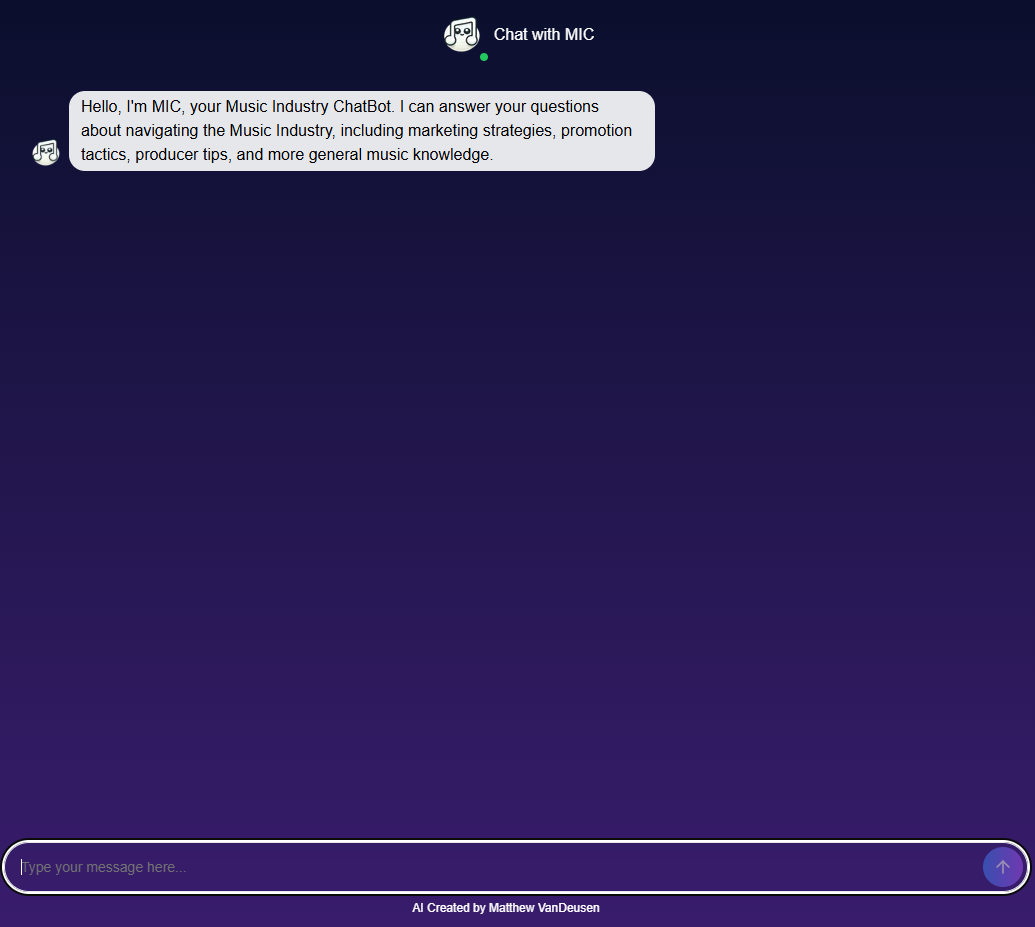
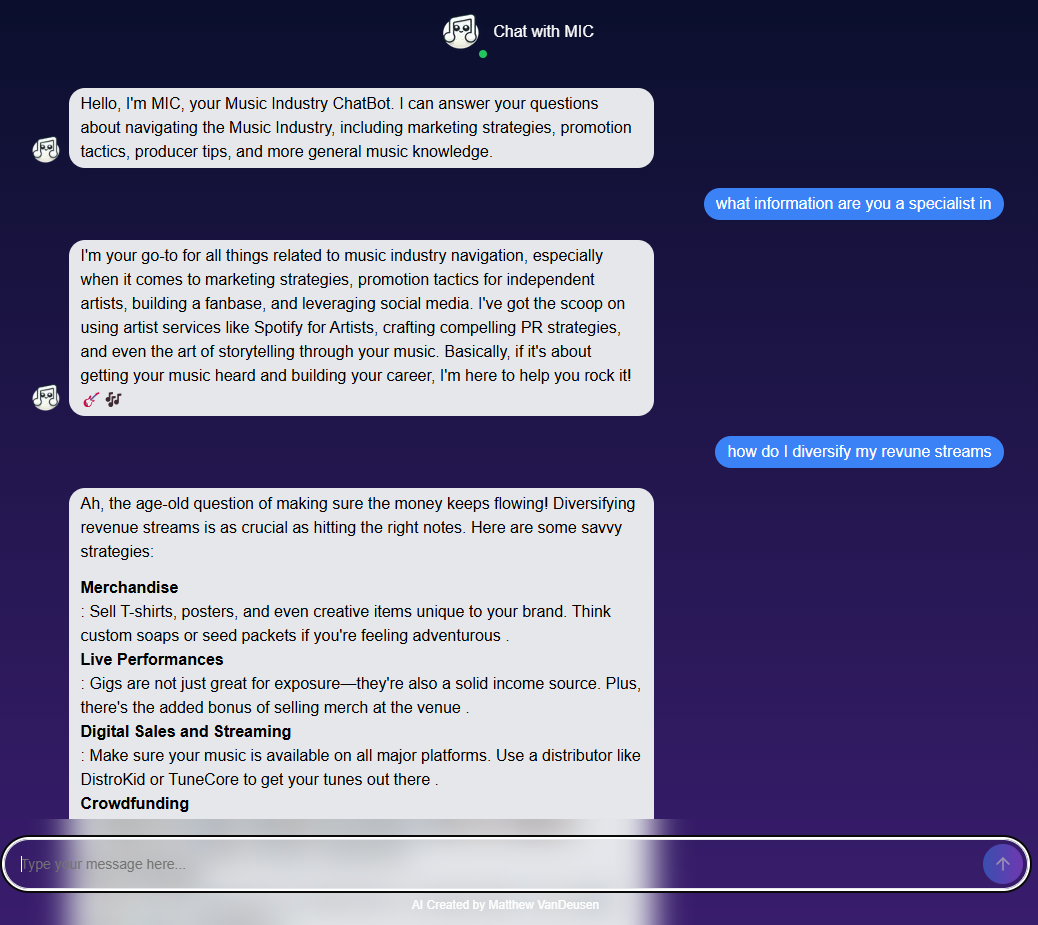
MIC update image and experiences

diff --git a/src/constants/index.js b/src/constants/index.js
@@ -147,7 +147,8 @@ import {
       date: "August 2023 - May 2024",
       points: [
         "Took courses in Modern Web Development, Computer Hardware Organization, Models of Language and Computation, and Code Organization",
-        "Competed at Swimming NCAA's for the university, obtained a school record and All American Honorable Mention for my performance."
+        "Competed at the NCAA Division 1 Swimming Championships for the university, obtained a school record and All American Honorable Mention for my performance.",
+        "Developed a website where users can search films through the omdb API to rate and rank movies"
       ],
     },
     {
@@ -155,11 +156,15 @@ import {
       company_name: "University of North Carolina",
       icon: unclogo,
       iconBg: "#383E56",
-      date: "August 2024 - Present",
+      date: "August 2024 - May 2025",
       points: [
-        "Courses in Probability and Statistics, Mobile Web Development, Algorithms and Analysis",
-        "Team Captain for the UNC Swim and Dive Men's team. Along with being enrolled in the Richard A Baddour Leadership Academy."
-
+        "Courses in Probability and Statistics, Mobile Web Development, Algorithms and Analysis, Robotics, Artificial Intelligence and AI In Business",
+        "Team Captain for the UNC Swim and Dive Men's team. Along with being enrolled in the Richard A Baddour Leadership Academy.",
+        "Competed at the NCAA Division 1 Swimming Championships for the university, and held multiple school records",
+        "Developed an Android App that takes pictures, analyzes pictures with Google's Vision API and connects to Gemini LLM to write and read the user a story about the picture",
+        "Built an AI ChatBot, MIC, that focuses on the Business side of Music Industry",
+        "Worked Collaboratively on a project to exam sentinment and emotion analysis within artifical intelligence and LLMs",
+        "Worked Collaboratively on a project to analyze a large Zillow data set and provide a write up to a stakeholder in the real estate industry"
       ],
     }
   ];

diff --git a/src/assets/index.js b/src/assets/index.js
@@ -38,14 +38,11 @@ export {
   close,
   css,
   docker,
-  figma,
   git,
   html,
   javascript,
-  mongodb,
   nodejs,
   reactjs,
-  redux,
   tailwind,
   typescript,
   threejs,
